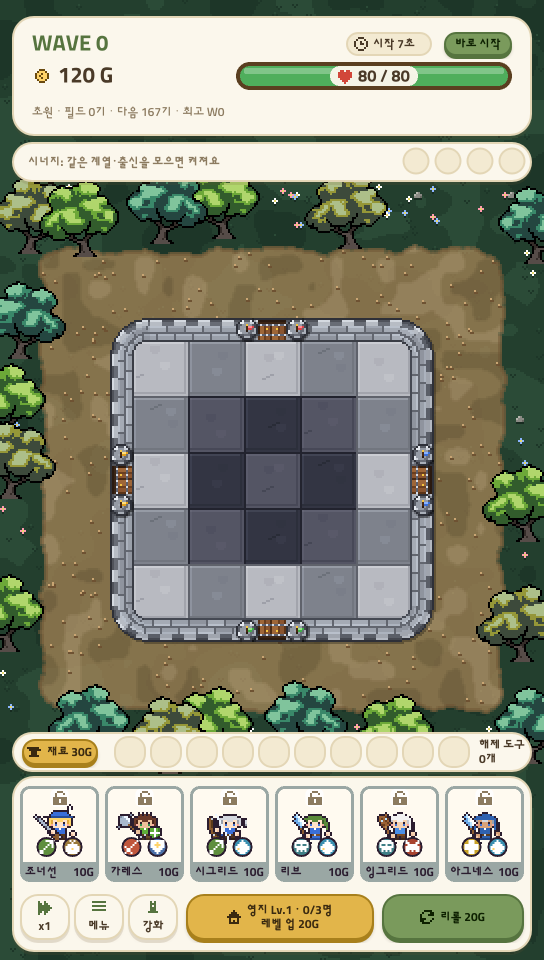
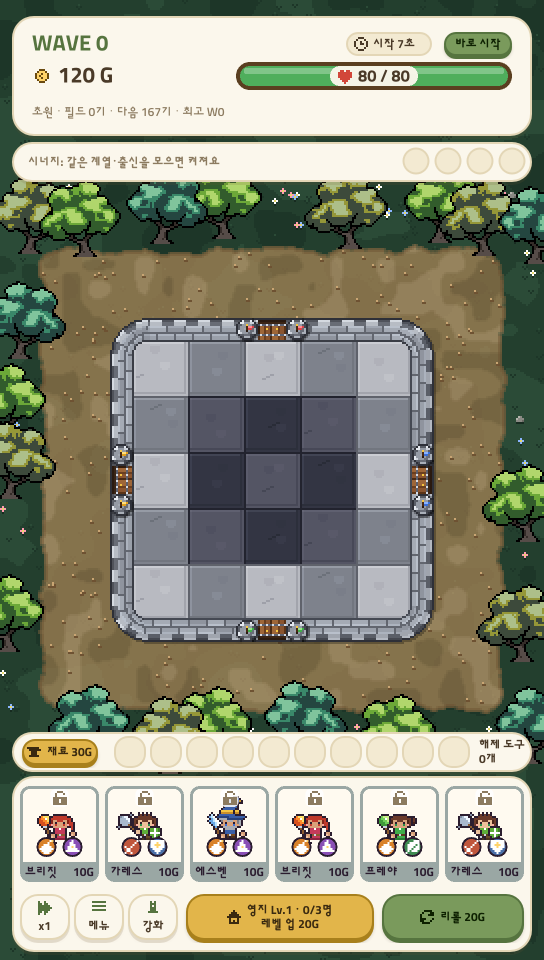
art: 배경 나무 오른쪽 위 2그루 추가 (20그루)
Claude-Session: https://claude.ai/code/session_01SZsqwRfS18NGHG22PfppyP

diff --git a/src/data/decor.js b/src/data/decor.js
@@ -3,11 +3,13 @@
 // 세로 화면만 (가로 배치는 꺼 둠). 몬스터 길(필드 바깥 y 250~710)·HUD 를 가리지 않는 곳에.
 export const DECOR = {
   grass: [
-    // D 배치 + 무작위 7그루, 색 3가지 (docs/drafts/tree-sway/final_d.py 가 쓴다 — 손으로 고치면 다음 실행에 덮인다)
+    // D 배치 + 무작위 7그루 + 오른쪽 위 2그루, 색 3가지 (docs/drafts/tree-sway/final_d.py 가 쓴다 — 손으로 고치면 다음 실행에 덮인다)
     { key: 'deco_tree_spring', x: 226, y: 237, phase: 0.31, flip: true },
+    { key: 'deco_tree_spring', x: 438, y: 241, phase: 0.91 },
     { key: 'deco_tree_teal', x: 160, y: 242, phase: 0.72 },
     { key: 'deco_tree', x: 352, y: 247, phase: 0.13, flip: true },
     { key: 'deco_tree', x: 28, y: 252, phase: 0.35 },
+    { key: 'deco_tree', x: 486, y: 254, phase: 0.26, flip: true },
     { key: 'deco_tree_spring', x: 87, y: 255, phase: 0.51, flip: true },
     { key: 'deco_tree_teal', x: 534, y: 262, phase: 0.11 },
     { key: 'deco_tree_teal', x: 18, y: 357, phase: 0.69 },

diff --git a/docs/drafts/tree-sway/final_d.py b/docs/drafts/tree-sway/final_d.py
@@ -28,10 +28,18 @@ for i in order:
     d['key'] = min(COLORS, key=lambda c: (c in used, count[c], rnd.random()))
     count[d['key']] += 1
     d['phase'] = round(rnd.random(), 2)
+# 오른쪽 위가 비어 보여서 손으로 2그루 더 (2026-11-21 사용자 요청) — 앞 나무들의 색·박자는 그대로 두고, 가까운 나무 색을 피해 고른다
+for d in [{'x': 438, 'y': 241, 'flip': False}, {'x': 486, 'y': 254, 'flip': True}]:
+    near = sorted(((d['x'] - o['x']) ** 2 + (d['y'] - o['y']) ** 2, o['key']) for o in trees)[:2]
+    used = {k for _, k in near}
+    d['key'] = min(COLORS, key=lambda c: (c in used, count[c], rnd.random()))
+    count[d['key']] += 1
+    d['phase'] = round(rnd.random(), 2)
+    trees.append(d)
 trees.sort(key=lambda d: (d['y'], d['x']))
 lines = ',\n'.join(f"    {{ key: '{d['key']}', x: {d['x']}, y: {d['y']}, phase: {d['phase']}{', flip: true' if d.get('flip') else ''} }}" for d in trees)
 p = os.path.join(ROOT, 'src', 'data', 'decor.js')
 s = open(p).read()
-s = re.sub(r"  grass: \[\n.*?\n  \]", "  grass: [\n    // D 배치 + 무작위 7그루, 색 3가지 (docs/drafts/tree-sway/final_d.py 가 쓴다 — 손으로 고치면 다음 실행에 덮인다)\n" + lines + "\n  ]", s, flags=re.S)
+s = re.sub(r"  grass: \[\n.*?\n  \]", "  grass: [\n    // D 배치 + 무작위 7그루 + 오른쪽 위 2그루, 색 3가지 (docs/drafts/tree-sway/final_d.py 가 쓴다 — 손으로 고치면 다음 실행에 덮인다)\n" + lines + "\n  ]", s, flags=re.S)
 open(p, 'w').write(s)
 print(len(trees), count, [(d['x'], d['y']) for d in trees if d.get('side')])

diff --git a/CLAUDE.md b/CLAUDE.md
@@ -81,7 +81,7 @@
 - **도트 굵기 = 모두 2px (2026-11-21 사용자 결정, `DOT`)**: 필드·캐릭터·스킬 이펙트·유물 아이콘에 더해 UI 아이콘·로비·타이틀(2px 격자 그림 272x480·640x360·272x482·203x360)·예전 이펙트 시트(Scale2x 2배 해상도)·화살·동전(배율 2)·코드로 그린 몬스터·투사체·입자(`dotKey` — 정예 2배·보스 3배 해상도, 보스 배율 5→6). 로비·병영·술집 캐릭터 그림도 크기 인자 없이 2px(`charImage`, 작은 칸은 'head' 머리만). `PX`(4)는 배치 단위로만 남음
 - **필드 크기 (2026-11-19 사용자 결정)**: 칸 56px(캐릭터 사이를 넓게 — 이전 48·64, 캐릭터 그림 48px 은 그대로), 성벽 두께 20, 석판 28 아트 px, **몬스터 길 폭은 1.5배(64px)** 로 넓혀 몬스터가 더 넓게 퍼져 걷는다(`laneSpread` 24). **유닛은 몸통 중심이 칸 가운데**(직접 그린 그림은 manifest `pivotX`·`pivotY`)
 - **성문 (2026-11-21)**: 전투 필드 성벽 동서남북 가운데에 성문(둥근 탑 2 + 나무 두짝 문, 성벽 두께 안). 세부는 `rtd-art-pipeline`
-- **배경 나무 (2026-11-21)**: 초원 필드 둘레 땅에 사용자 그림 나무 18그루(50x50, 2px, 위 6·양옆 6·아래 6 불규칙 배치, 일부 좌우 뒤집기 · 잎 색 3가지 기본 올리브·청록 `deco_tree_teal`·연두 `deco_tree_spring`, 배치 `final_d.py`)가 바람에 살랑인다 — 28프레임 × 100ms 반복, 나무마다 박자 다름, 몬스터 아래 층. 자리 `src/data/decor.js`, 그리기 `src/art/decor.js`, 그림 `docs/drafts/tree-sway/sway.py` → manifest `deco_tree`. 지역이 바뀌면 서서히 사라짐
+- **배경 나무 (2026-11-21)**: 초원 필드 둘레 땅에 사용자 그림 나무 20그루(50x50, 2px, 위 8·양옆 6·아래 6 불규칙 배치, 일부 좌우 뒤집기 · 잎 색 3가지 기본 올리브·청록 `deco_tree_teal`·연두 `deco_tree_spring`, 배치 `final_d.py`)가 바람에 살랑인다 — 28프레임 × 100ms 반복, 나무마다 박자 다름, 몬스터 아래 층. 자리 `src/data/decor.js`, 그리기 `src/art/decor.js`, 그림 `docs/drafts/tree-sway/sway.py` → manifest `deco_tree`. 지역이 바뀌면 서서히 사라짐
 - 배경: 10웨이브마다 지역 교체(지역 배경 레이어만 바뀜) — 초원 → 사막 → 가을 숲 → 화산 → 설원 → 늪 → 수정 동굴 → 묘지 → 천공의 섬 → 공허의 끝. 플랫 픽셀(2~3톤 얼룩, 잡티 금지), 석판은 회색 체크무늬. 초원 흙길은 밝은 브라운(`#b38d5c` 계열)
 - 몬스터 외형: 일반 5웨이브마다(20종), 정예·보스는 웨이브마다 전용(각 10종)
 - 소리: 16비트 풍 WebAudio 합성(배경음 4곡 + 효과음), 외부 오디오 파일 없음

diff --git a/docs/HISTORY.md b/docs/HISTORY.md
@@ -228,3 +228,4 @@
 - 2026-11-21 단축키: 전투 중 Space = 게임 정지/다시(이전 바로 시작 — 바로 시작은 버튼으로만), R = 상점 리롤
 - 2026-11-21 초원 배경 나무 적용 — 사용자 그림 나무가 바람에 살랑이는 28프레임(`deco_tree`), 필드 위 모서리 2그루 + 아래 5그루, 지역이 바뀌면 사라짐 (`src/data/decor.js`·`src/art/decor.js`)
 - 2026-11-21 배경 나무 배치 확정 — D 배치 + 무작위 7그루 = 18그루, 잎 색 3가지(기본·청록·연두), 일부 좌우 뒤집기 (`docs/drafts/tree-sway/final_d.py` → `src/data/decor.js`)
+- 2026-11-21 배경 나무 오른쪽 위 2그루 추가 (20그루, `final_d.py`)
